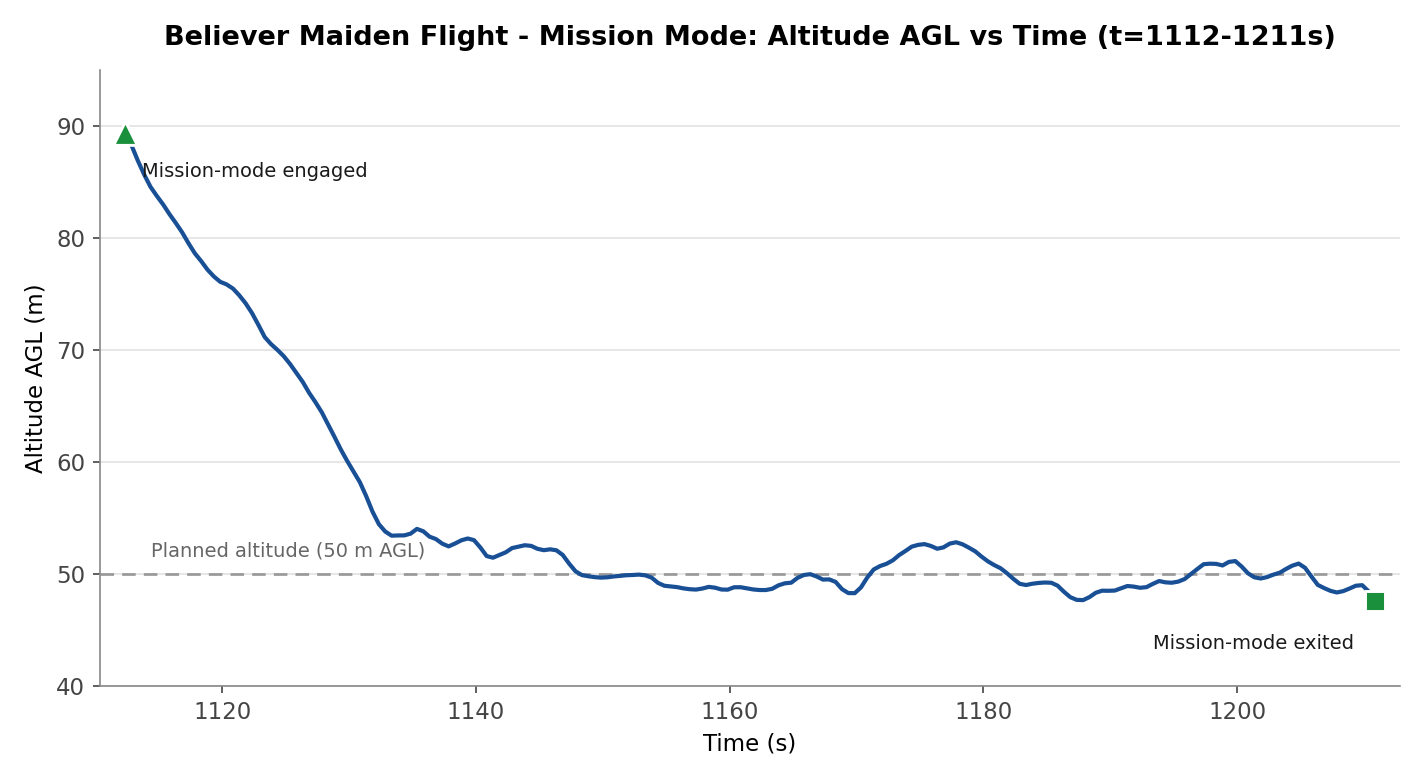
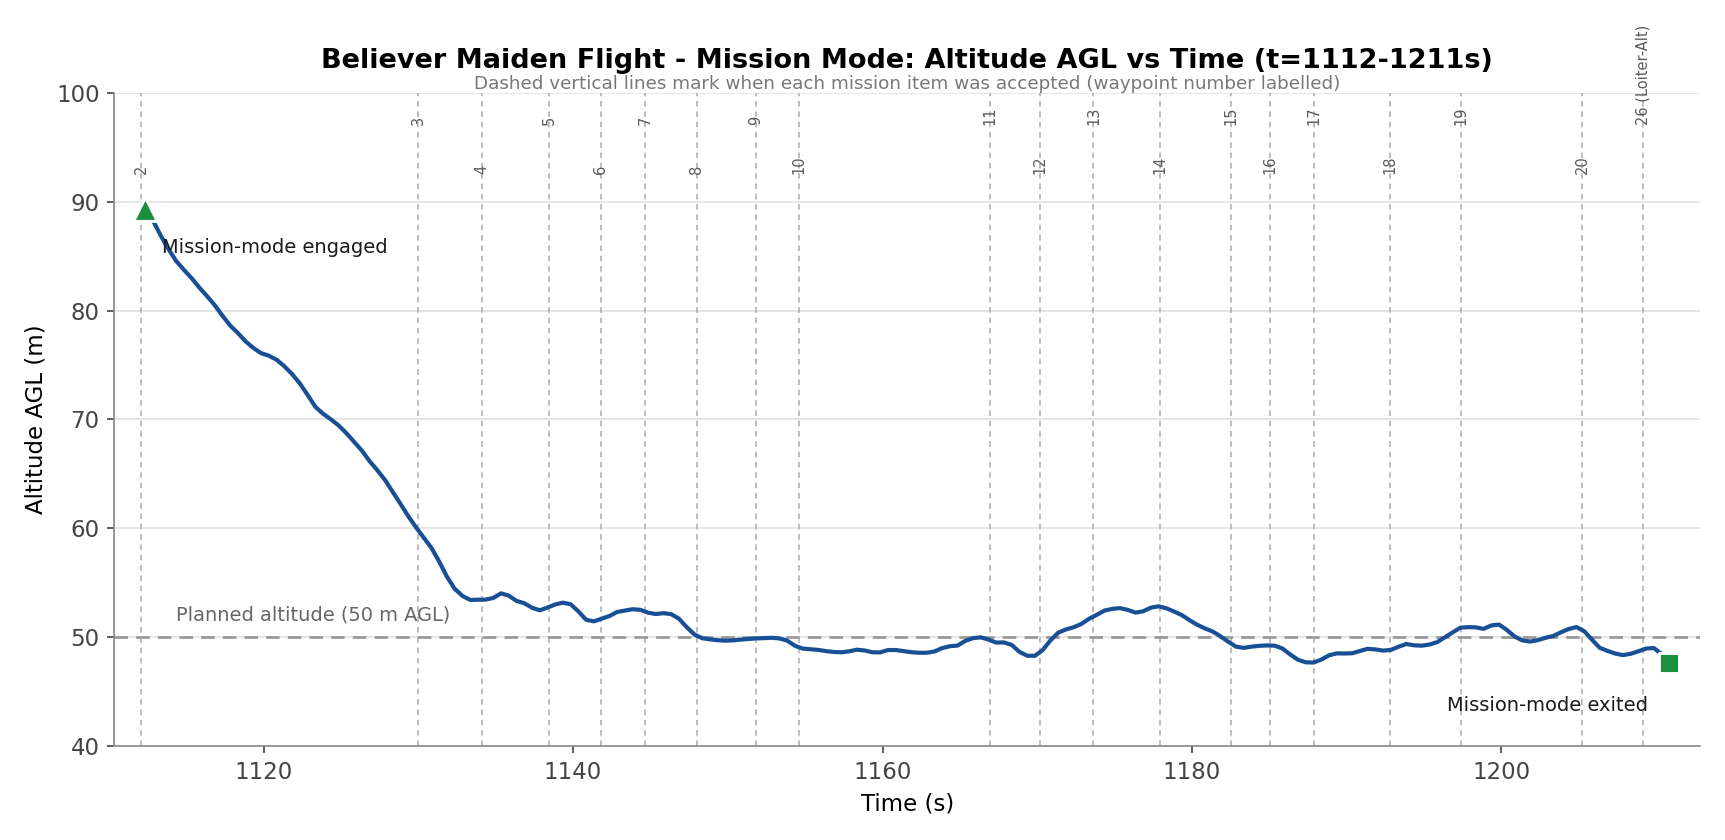
Add waypoint-acceptance markers to the altitude plot; fix two stale claims in the test report
Added dashed vertical lines/labels to the Mission-mode altitude-vs-time
plot marking when each mission item was accepted, per Julian.

Also fixed, both per Julian's catch: the NAV_DLL_ACT paragraph read as
an unexpected revert when it was actually a deliberate pre-flight change
to prevent an RTL if the GCS laptop died; and several "GPS used instead
of airspeed" sentences blurred the invalid validated topic with the raw
differential-pressure sensor, which was confirmed healthy and used
directly elsewhere in the report.

diff --git a/docs/engineering/test-reports/2026-10-11-maiden-flight.md b/docs/engineering/test-reports/2026-10-11-maiden-flight.md
@@ -14,9 +14,9 @@ The maiden flight ran 24m47s (armed to disarmed): airborne (`Takeoff detected`) 
 
 Per Julian's debrief: the launch itself was marginal (hand-launched from a hill, using all the available elevation to gain flying speed - see Launch below) and the pilot found the aircraft difficult to roll right throughout the flight, worse at higher throttle, suspected to be induced motor torque fighting the roll command since both propellers turn the same direction. Both are addressed below with log evidence. Post-flight inspection also found a bad bearing in the right motor - see Post-Flight Inspection Findings.
 
-The flight's most important finding is operational, not aerodynamic: the GCS telemetry link (RFD900x) dropped out 18 times over the 24.8-minute flight, three of them longer than the 10-second data-link-loss failsafe timeout (`COM_DL_LOSS_T`). The aircraft launched with `NAV_DLL_ACT` already reverted to 0 (Disabled) rather than the 2 (Return) set on 2026-10-02 under RF-06 - confirmed directly from the log's embedded parameter set - which is why none of those dropouts triggered an unwanted RTL. Had RF-06's setting still been live, at least three automatic RTLs would very likely have fired mid-flight despite the pilot holding full manual RC control throughout. This is documented in full in `docs/operations/backups/Pixhawk Parameter Backup/parameter-change-log.md`.
+The flight's most important finding is operational, not aerodynamic: the GCS telemetry link (RFD900x) dropped out 18 times over the 24.8-minute flight, three of them longer than the 10-second data-link-loss failsafe timeout (`COM_DL_LOSS_T`). `NAV_DLL_ACT` had been deliberately set back to 0 (Disabled) on 2026-10-11, before the flight - reverting RF-06's 2026-10-02 setting of 2 (Return) - specifically so a GCS dropout couldn't trigger an unwanted RTL; the log's embedded parameter set confirms it was already at 0 at launch. That decision is why none of the 18 dropouts triggered an RTL: had the 2026-10-02 setting still been live, at least three automatic RTLs would very likely have fired mid-flight despite the pilot holding full manual RC control throughout. See GCS data-link dropouts and the `NAV_DLL_ACT` reversal below, and the full record in `docs/operations/backups/Pixhawk Parameter Backup/parameter-change-log.md`.
 
-A second significant finding: `airspeed_validated` was invalid for almost the entire flight (only 2.9% of samples in a physically plausible range). This is not a sensor or pitot-line fault - the raw differential-pressure readings were physically sane for the whole flight - but a PX4 validator that latched the sensor as failed after one trip 16.4s after takeoff and, by default, never let it recover in flight (see Airspeed validator latched invalid below). TECS-dependent modes that rely on airspeed (Altitude mode, the Cruise Efficiency Sweep's hands-off points) were likely operating on degraded or fallback airspeed estimates for this flight regardless of the root cause. Ground speed from GPS was used in this report instead, where airspeed data was needed.
+A second significant finding: `airspeed_validated` - PX4's validated airspeed topic, the one TECS-dependent modes actually fly on - was invalid for almost the entire flight (only 2.9% of samples in a physically plausible range). This is not a sensor or pitot-line fault: the raw differential-pressure sensor itself is confirmed healthy and reading physically sane airspeeds for the whole flight (see Airspeed validator latched invalid below) - a PX4 validator latched the *validated* topic as failed after one trip 16.4s after takeoff and, by default, never let it recover in flight. TECS-dependent modes that rely on the validated topic (Altitude mode, the Cruise Efficiency Sweep's hands-off points) were likely operating on degraded or fallback airspeed estimates in flight regardless of the root cause. Where this report needed a validated-equivalent figure, ground speed from GPS was used instead (see Speed, below); elsewhere (Stall speed, Glide slope, the GPS-vs-airspeed cross-check) the raw sensor is recomputed and used directly, since it was never actually faulty.
 
 The in-flight PID auto-tune (Phase D) was attempted twice and succeeded on the second attempt, committing new roll- and pitch-rate gains partway through the flight (see Findings).
 
@@ -67,7 +67,7 @@ Home position: 24.7m AMSL. Initial climb from takeoff (t=32.6s) reached about 59
 
 ### Speed
 
-GPS ground speed (`vehicle_local_position` vx/vy) ranged from 0 (on the ground) to 31.3 m/s, averaging 17.7 m/s - used here instead of airspeed given the sensor fault below. This is ground speed, not airspeed, and includes wind effects.
+GPS ground speed (`vehicle_local_position` vx/vy) ranged from 0 (on the ground) to 31.3 m/s, averaging 17.7 m/s - used here instead of airspeed, since `airspeed_validated` (not the raw sensor, which was healthy throughout - see Airspeed validator latched invalid below) was invalid for almost the whole flight. This is ground speed, not airspeed, and includes wind effects.
 
 ### Battery
 
@@ -81,7 +81,7 @@ What actually happened: `airspeed_sensor_measurement_valid` flips false exactly 
 
 **Decision: `ASPD_FS_T_START` changed to 2s** so a future transient trip can clear itself in flight instead of latching for the rest of the flight - not yet applied to the physical FC, see `docs/operations/backups/Pixhawk Parameter Backup/parameter-change-log.md`.
 
-This still affects the reliability of any TECS-mediated mode (Altitude mode, hands-off points in Phase E) and Phase E's post-flight power-vs-airspeed analysis for *this* flight - GPS ground speed was used instead where airspeed data was needed. Flagged in `AI-context/open-items.md`.
+This still affects the reliability of any TECS-mediated mode in flight (Altitude mode, hands-off points in Phase E); Phase E's post-flight power-vs-airspeed analysis is not shown for this flight as a result (see What This Does and Does Not Show). Flagged in `AI-context/open-items.md`.
 
 ### GPS speed vs. raw-sensor airspeed cross-check
 
@@ -173,9 +173,9 @@ No control surface (`MAIN1`/`MAIN2` V-tail, `MAIN3`/`MAIN5` ailerons) was pegged
 
 The flown track (coloured by altitude AGL) tracks the real mission (orange) closely - mean deviation 17.7m, well within normal fixed-wing turn/overshoot tolerance. The long diagonal leg from the "Mission-mode engaged" marker (bottom) up to the pattern is expected PX4 behaviour, not an anomaly: the aircraft was already airborne and physically near waypoints 15-17 when Mission mode was engaged, and PX4 resumed at waypoint 2 (the first real waypoint after Takeoff) rather than restarting from the ground - so it had to transit across the pattern to reach it first.
 
-![Altitude AGL vs. time over the same Mission-mode window (t=1112-1211s), with the planned 50m AGL altitude marked](../../assets/test-plots/mission-mode-altitude-vs-time-2026-10-11.png)
+![Altitude AGL vs. time over the same Mission-mode window (t=1112-1211s), with the planned 50m AGL altitude marked and a dashed vertical line/label for when each mission item was accepted](../../assets/test-plots/mission-mode-altitude-vs-time-2026-10-11.png)
 
-That transit leg shows clearly in the altitude trace too: the aircraft was at 89m AGL (well above the planned 50m) when Mission mode engaged, and spent the first ~35s of the segment descending to the pattern's planned altitude before settling into the 48-53m band it holds for the remainder, oscillating gently around the planned 50m rather than tracking it exactly - consistent with normal altitude-hold behaviour through a series of turns rather than any anomaly.
+That transit leg shows clearly in the altitude trace too: the aircraft was at 89m AGL (well above the planned 50m) when Mission mode engaged, and spent the first ~35s of the segment descending to the pattern's planned altitude before settling into the 48-53m band it holds for the remainder, oscillating gently around the planned 50m rather than tracking it exactly - consistent with normal altitude-hold behaviour through a series of turns rather than any anomaly. The per-waypoint acceptance markers also show the leg timing is uneven - mostly 3-5s between waypoints, but item 2 took 17.9s (the transit leg itself) and item 10->11 took 12.4s, both longer straight legs in the pattern rather than anything irregular. Item 26 (Loiter-to-Alt, the first item past the pattern) was accepted at t=1209.1s, 2s before the pilot switched out of Mission mode - the mission had already moved past the planned pattern by the time the segment ends.
 
 The arrow annotated on the plot is the PX4 EKF's own wind estimate (`airspeed_wind`), vector-averaged over the in-flight period only (takeoff detected to landing detected - ground time before and after excluded, since the estimator isn't meaningfully observing wind while stationary): **2.96 m/s from 066°T**. See the GPS speed vs. raw-sensor airspeed cross-check above for the full method and the caveat that the underlying per-sample estimate wanders in direction over the flight (not a single stationary value) - this is a time-averaged simplification, not an instant-by-instant true wind.
 

diff --git a/AI-context/CHANGELOG.md b/AI-context/CHANGELOG.md
@@ -4,7 +4,8 @@ All notable changes to the Believer project repo are logged here, most recent fi
 
 ## 2026-10-16
 - Redesigned `docs/assets/test-plots/mission-mode-planned-vs-actual-2026-10-11.png`'s styling, regenerated from the maiden flight's own log (`docs/operations/backups/Pixhawk SD Card Backup/log/2026-10-10/23_02_07.ulg`) and the georeferenced aerial image/world file, since no generation script for this plot had been kept in the repo from when it was first created. Three fixes: replaced the wind-vector glyph with a chevron/dart arrowhead sized to sit fully inside the photo (the previous version straddled the image edge and was too small/narrow to read), oriented to point downwind - the conventional flow-direction arrow - while the label text still reports the meteorological "from" bearing; gave the planned-mission dashed line and waypoint markers a white halo for contrast against the green field, matching the flown track's existing treatment, and switched the planned-mission colour from blue to orange so it no longer competes with the flown track's new colour encoding; recoloured the flown track by altitude AGL (sequential blue ramp, `dataviz` skill) with a colorbar legend added on the right. Also rebuilt the on-image legend as a measured 3-row x 2-column grid after the first pass let the wind row render outside its bordered box and hid the "Mission-mode engaged" marker behind the legend panel, and corrected an early draft's wind-arrow rotation that put the glyph's blunt end where the sharp tip should read.
-- Tightened the same plot's legend box (smaller row height/padding/font - the first pass left too much space between entries) and the bottom crop margin that was sized around it. Added a new standalone plot, `docs/assets/test-plots/mission-mode-altitude-vs-time-2026-10-11.png` - altitude AGL vs. time over the same Mission-mode window (t=1112-1211s), with the planned 50m AGL altitude marked and the same engaged/exited markers as the map plot for cross-reference. Linked it into `docs/engineering/test-reports/2026-10-11-maiden-flight.md`'s Mission mode section with a short paragraph on the transit-then-settle shape it shows, and caught the map plot's own description there going stale against its new colours (said "flown track (green)... real mission (blue)" - now coloured by altitude AGL and orange respectively) while in there.
+- Tightened the same plot's legend box (smaller row height/padding/font - the first pass left too much space between entries) and the bottom crop margin that was sized around it. Added a new standalone plot, `docs/assets/test-plots/mission-mode-altitude-vs-time-2026-10-11.png` - altitude AGL vs. time over the same Mission-mode window (t=1112-1211s), with the planned 50m AGL altitude marked and the same engaged/exited markers as the map plot for cross-reference. Linked it into `docs/engineering/test-reports/2026-10-11-maiden-flight.md`'s Mission mode section with a short paragraph on the transit-then-settle shape it shows, and caught the map plot's own description there going stale against its new colours (said "flown track (green)... real mission (blue)" - now coloured by altitude AGL and orange respectively) while in there. Added dashed vertical lines/labels to the altitude plot marking when each mission item was accepted, per Julian.
+- Fixed two misleading statements in `docs/engineering/test-reports/2026-10-11-maiden-flight.md`'s summary and body, both per Julian's catch: (1) the `NAV_DLL_ACT` paragraph read as if the parameter had reverted to 0 unexpectedly, when the parameter-change-log already records it as a deliberate pre-flight change by Julian on 2026-10-11 specifically to prevent an RTL if the GCS laptop died - reworded to state the intent up front instead of only in the later GCS-dropouts section; (2) several "GPS used instead of airspeed" sentences blurred `airspeed_validated` (PX4's validated topic, actually invalid) with the raw differential-pressure sensor (confirmed healthy and used directly in the Stall speed, Glide slope, and cross-check sections) - reworded to name the validated topic specifically and stop overstating GPS as a blanket airspeed substitute, including correcting the Phase E line, which had claimed GPS substituted for a power-vs-airspeed analysis that the report's own "What This Does and Does Not Show" section says was never produced.
 
 ## 2026-10-15
 - Compared the maiden flight's EKF wind estimate against Open-Meteo's historical reanalysis archive, per Julian (no site anemometer reading exists). Queried at the flight's own recorded home position, 2026-10-11 09:00 local: 1.30 m/s from 016°T, gusting 5.20 m/s - a real discrepancy against the EKF's 2.96 m/s from 066°T, not a confirmation. Partly explained (reanalysis grid point ~5.2km from the field; 10m reference height vs. the aircraft's flight altitude; the gust figure sits much closer to the EKF average than the base wind speed does, consistent with genuinely gusty conditions) but the direction gap stays open. Checked for finer-than-hourly resolution (a 15-minute parameter, a named higher-res model) - neither returned data for this historical date, so hourly is the practical floor. Documented in `docs/engineering/test-reports/2026-10-11-maiden-flight.md` and updated the matching `AI-context/open-items.md` item to record this as a regional-model comparison, not ground truth, with a real anemometer reading still the open ask.
